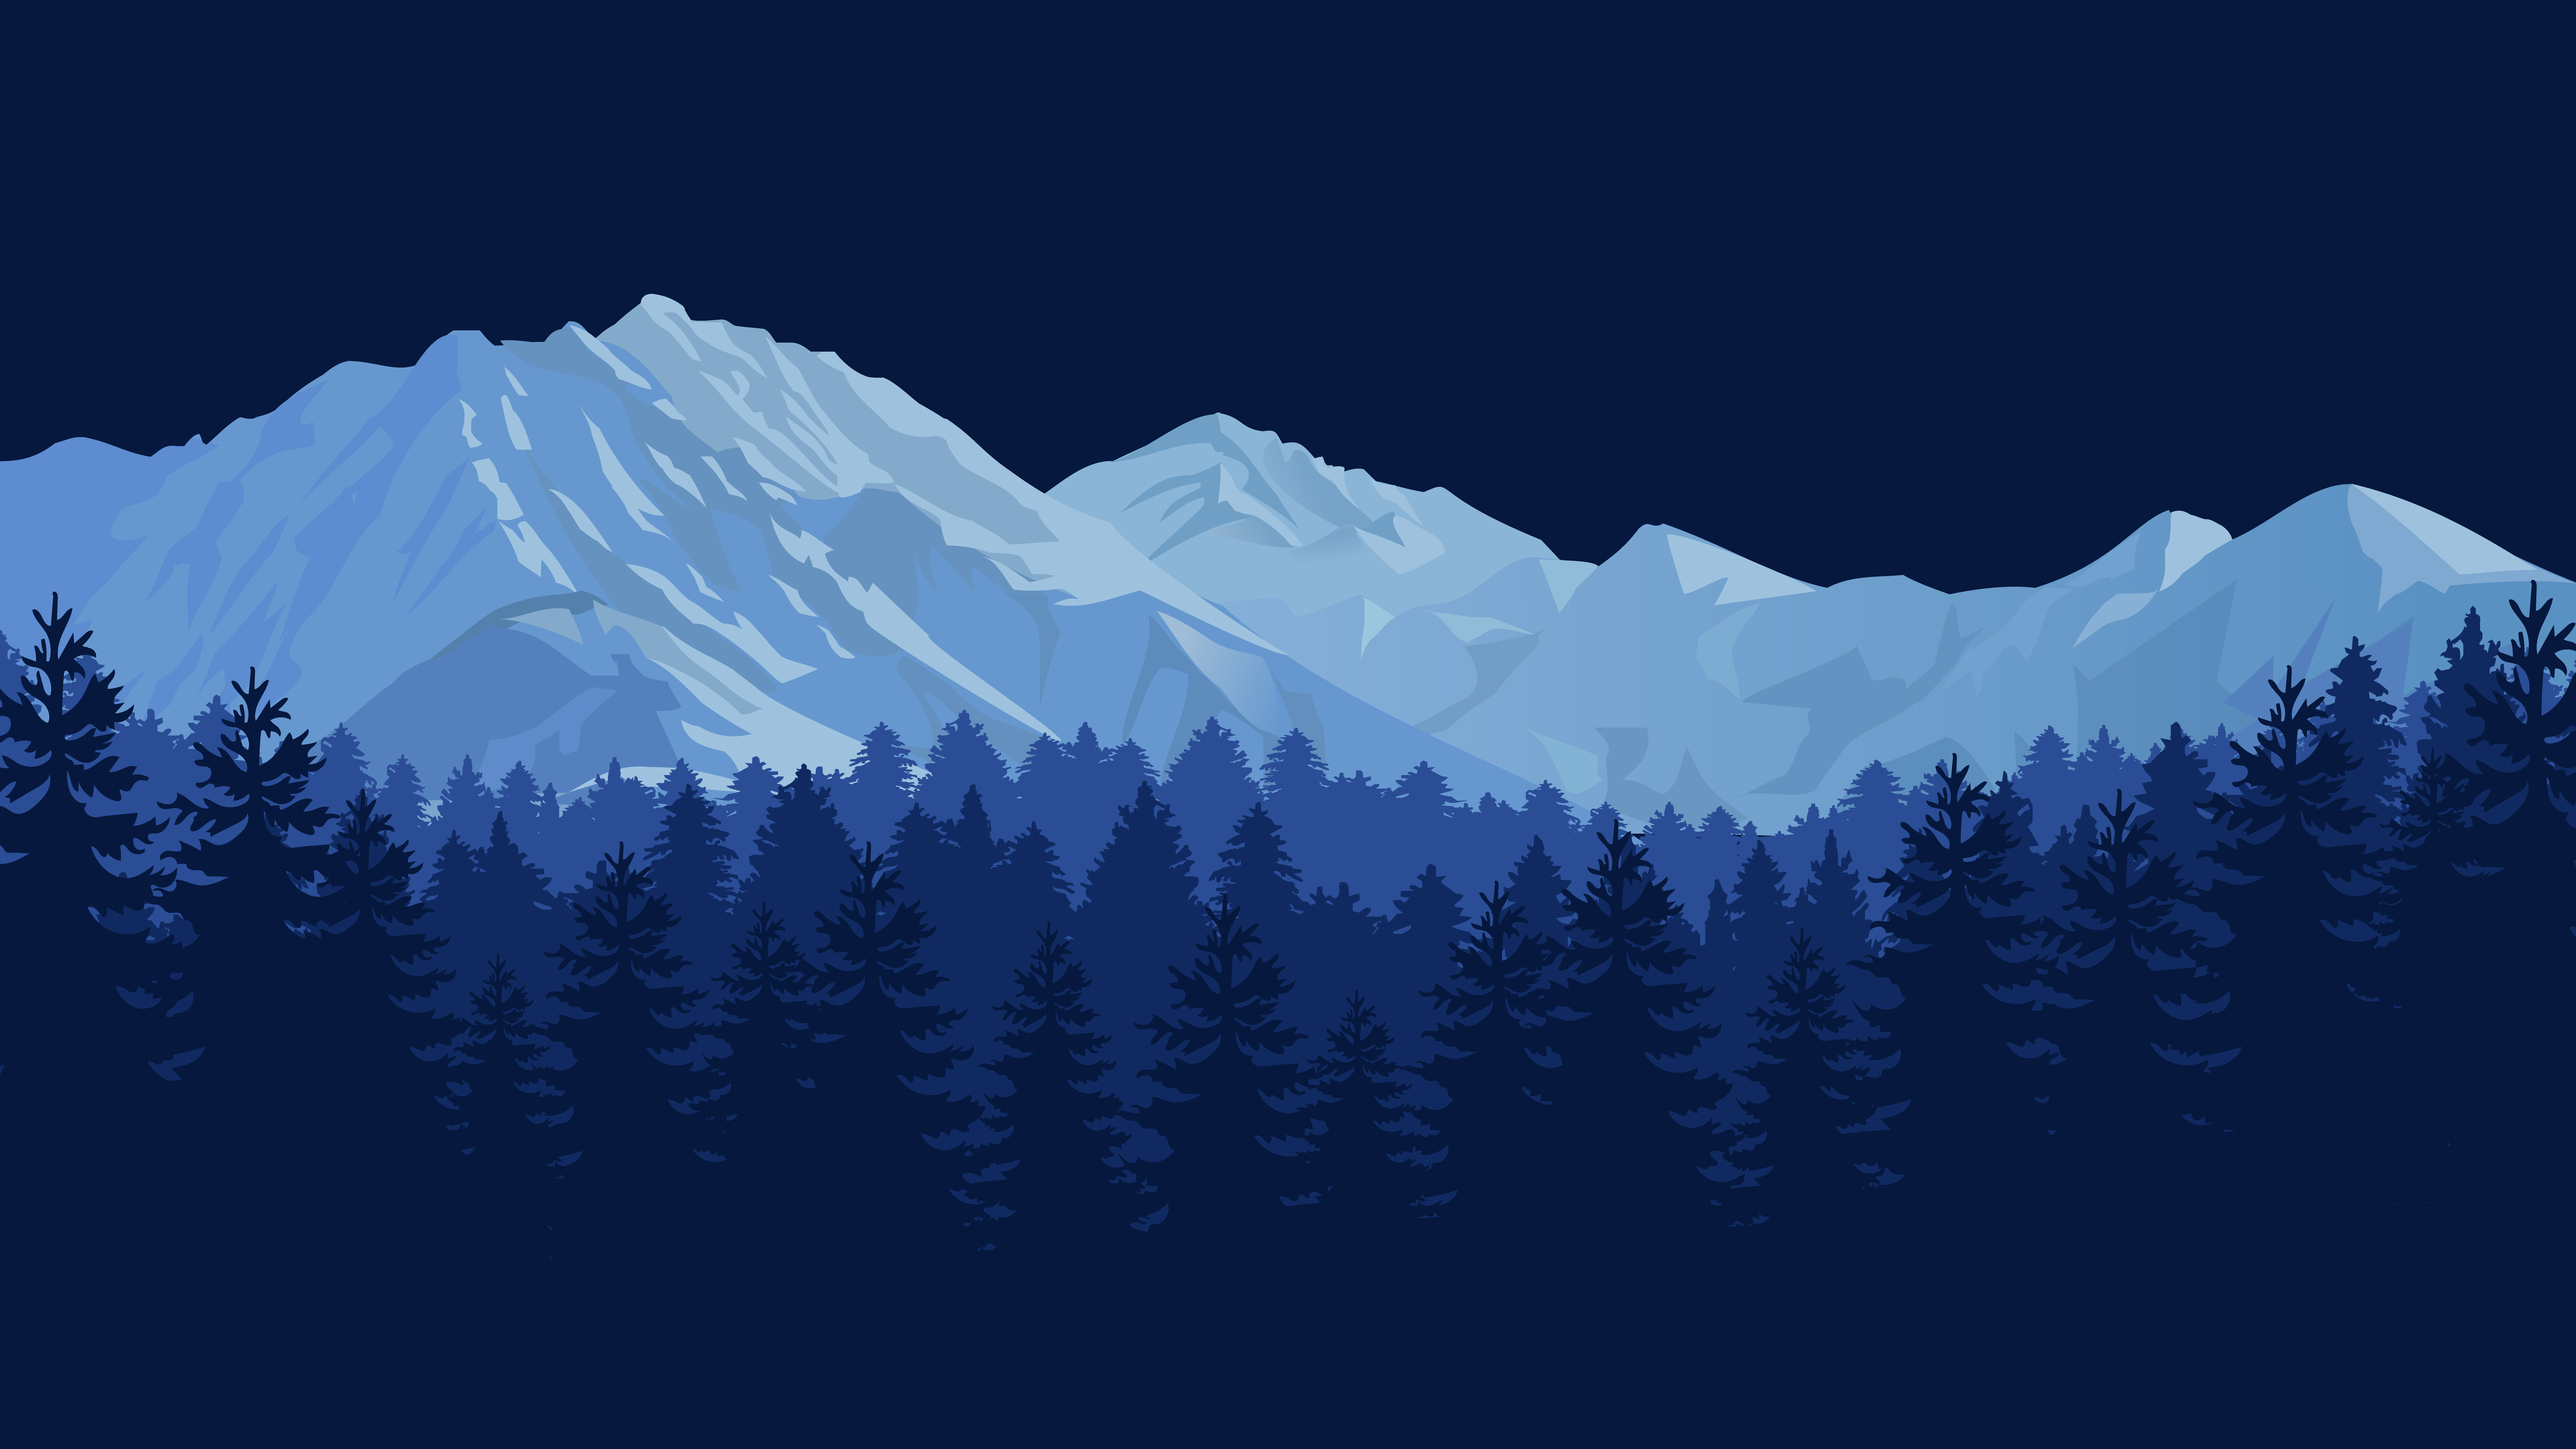
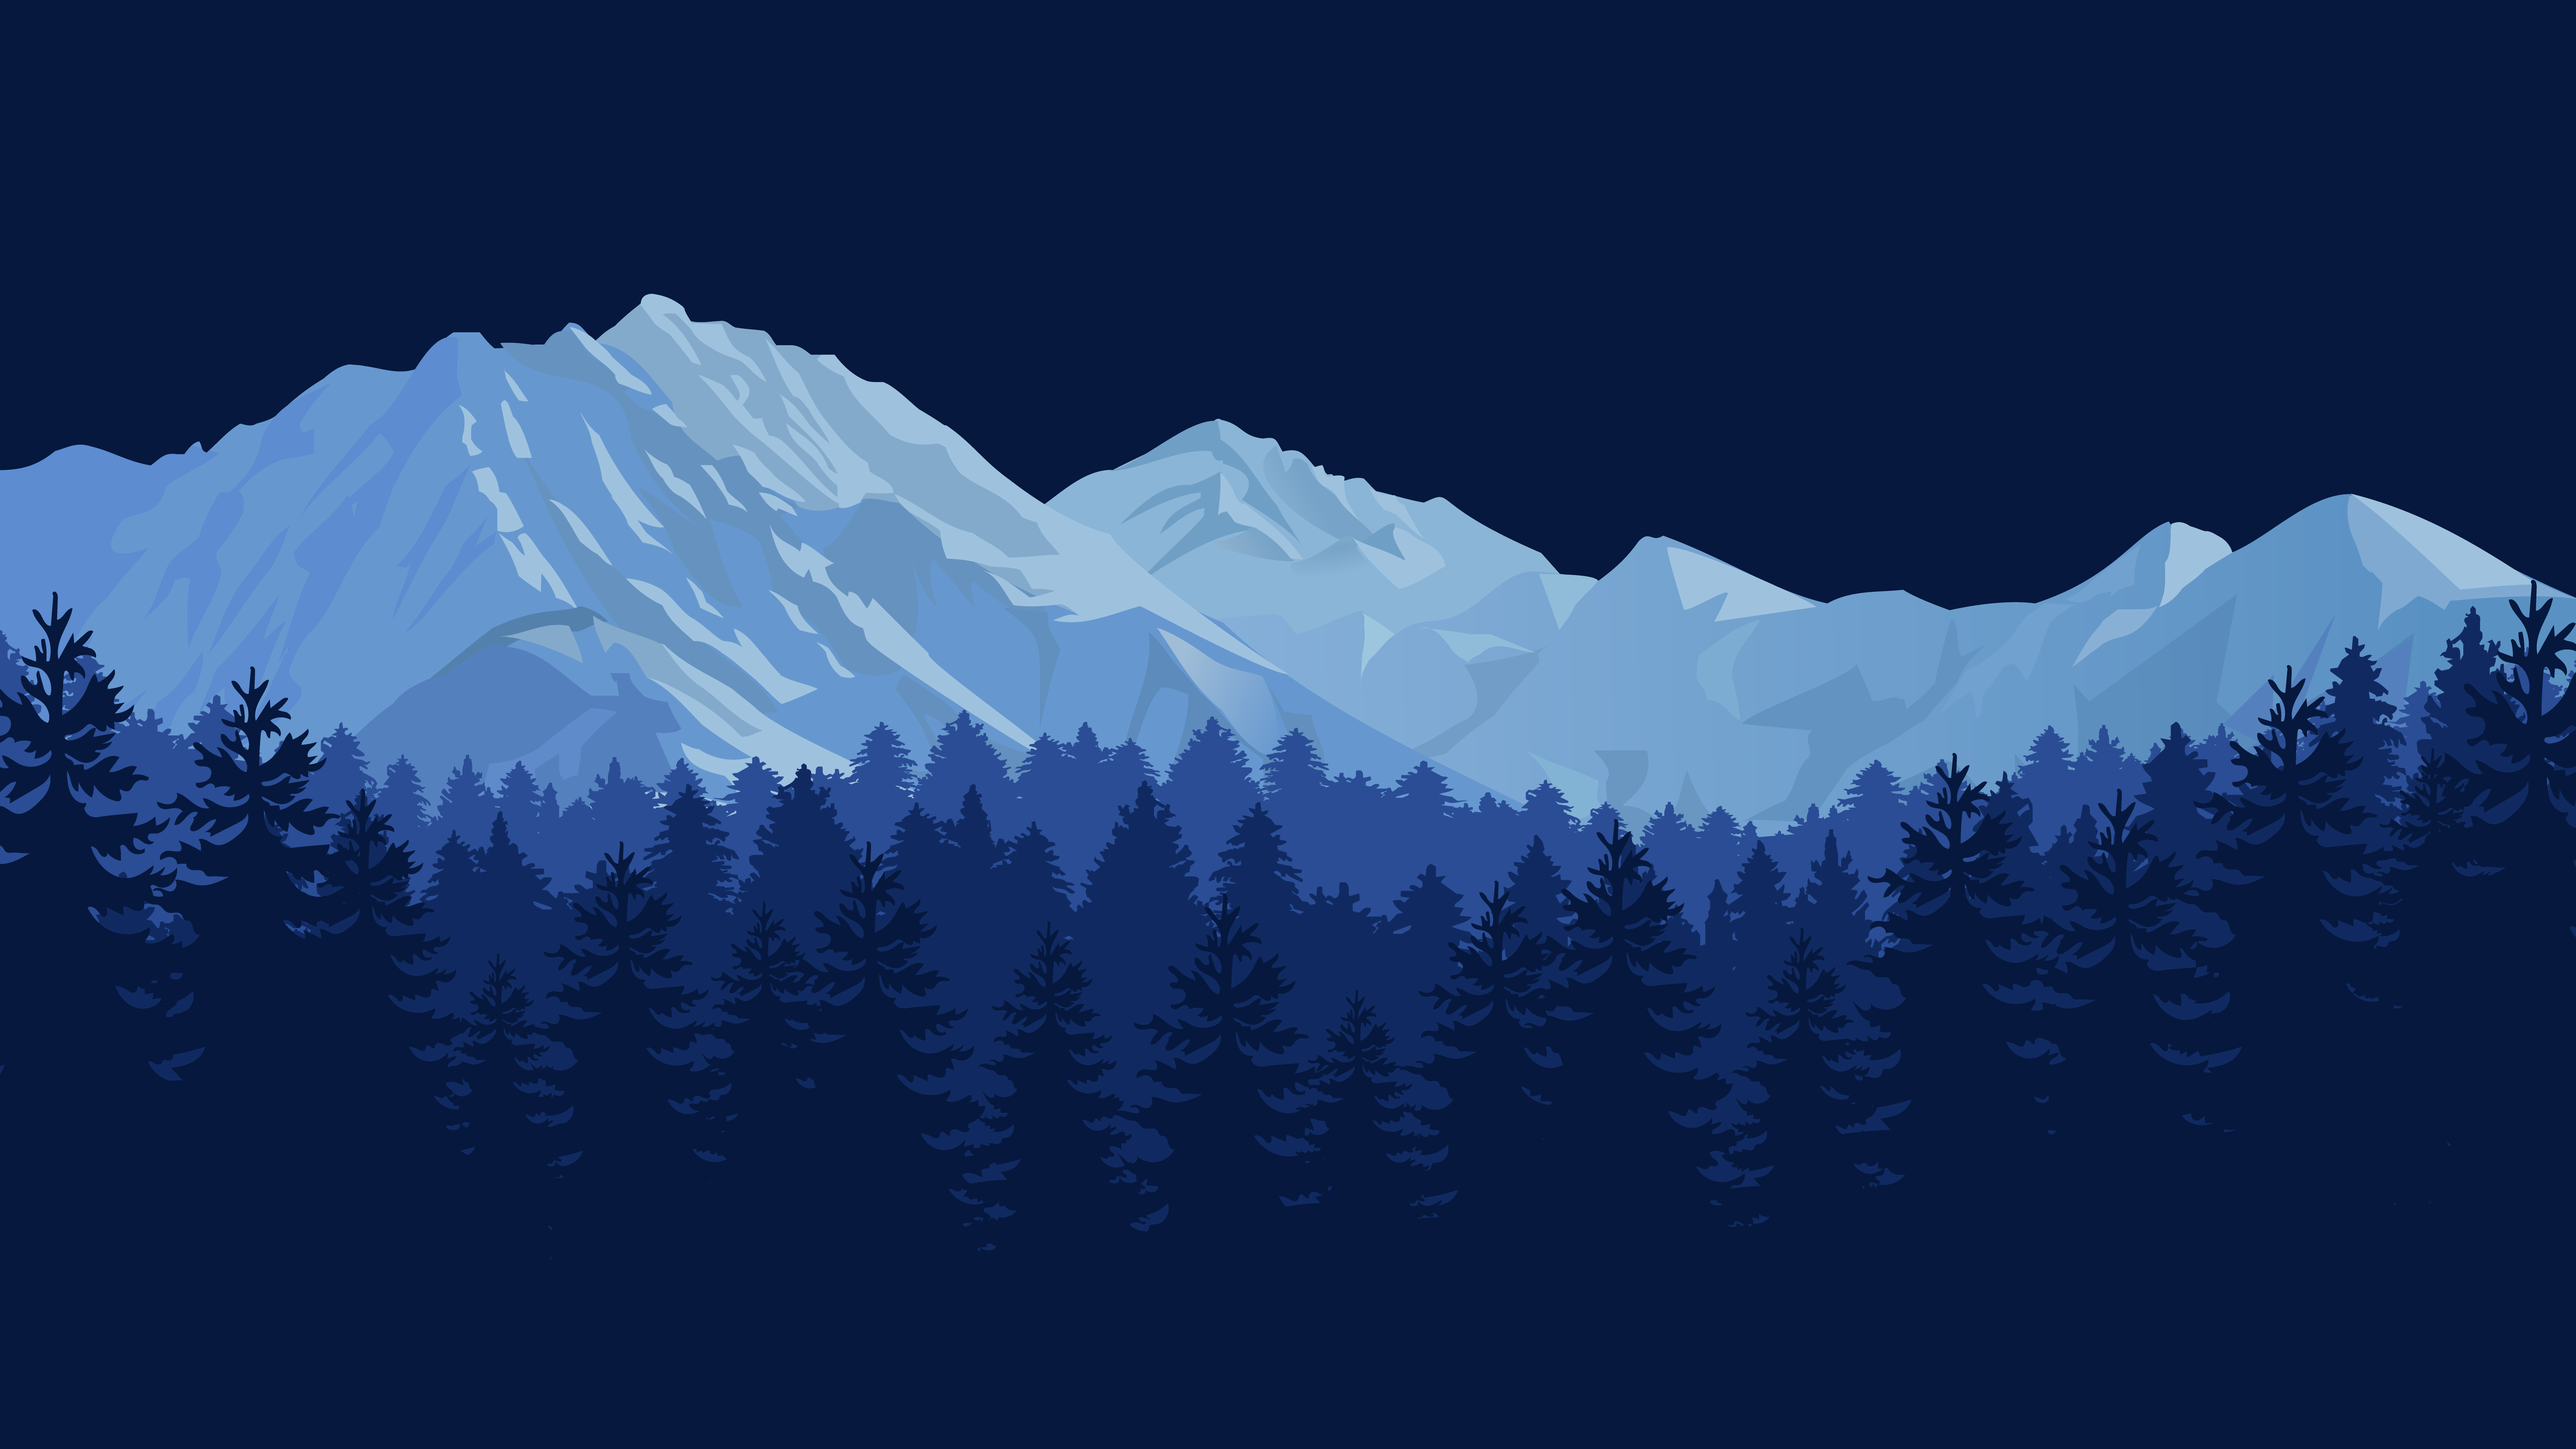
changes homepage background

diff --git a/src/App.js b/src/App.js
@@ -1,5 +1,6 @@
 import React from 'react';
 import './App.css';
+import gsap from 'gsap';
 
 function App() {
   return (
@@ -14,9 +15,12 @@ function App() {
               <h1 id="intro-hello">Hi, my name is</h1>
               <h1 id="intro-name">Peter Mulard.</h1>
               <h1 id="intro-description">I'm an aspiring full stack software engineer.</h1>
-              <div id="intro-button" class="button">
+            </div>
+            {/* <div id="fireflies-container">
+              {fireflies()}
+            </div> */}
+            <div id="intro-button" class="button">
                 <a href="#about-container">Let's dive in</a>
-              </div>
             </div>
           </div>
           <div id="about-container">
@@ -176,6 +180,53 @@ function App() {
       </div>
     </div>
   );
+}
+
+
+/*
+a Pen by DIACO : twitter.com/Diaco_ml || codepen.io/MAW
+powered by GSAP : https://www.greensock.com/
+*/
+const fireflies = () => {
+
+  var total=40,
+    container=document.getElementById('fireflies-container'),
+    w=window.innerWidth,
+    h=window.innerHeight,
+    Tweens=[],
+    SPs=1;
+
+  for (var i=total;i--;){ 
+    var Div=document.createElement('div');
+    gsap.set(Div,{attr:{class:'dot'},x:R(w),y:R(h),opacity:0});
+    container.appendChild(Div);	Anim(Div);	Tweens.push(Div);
+  };
+
+  function Anim(elm){ 
+    elm.Tween=gsap.to(elm,R(20)+10,{bezier:{values:[{x:R(w),y:R(h)},{x:R(w),y:R(h)}]},opacity:R(1),scale:R(1)+0.5,delay:R(2),onComplete:Anim,onCompleteParams:[elm]})
+  };
+
+  for(var i=total;i--;){
+    Tweens[i].Tween.play()};
+
+  window.addEventListener("resize", resize);
+
+  function R(max){return Math.random()*max};
+
+  function resize() {
+    
+    w = window.innerWidth;
+    h = window.innerHeight;
+    
+    for (var i = 0; i < total; i++) {
+      
+      var fireFly = Tweens[i];
+
+      gsap.killTweensOf(fireFly);
+      
+      Anim(fireFly);
+    }
+  }
 }
 
 export default App;

diff --git a/src/App.css b/src/App.css
@@ -2,17 +2,6 @@
   text-align: center;
 }
 
-.App-logo {
-  height: 40vmin;
-  pointer-events: none;
-}
-
-@media (prefers-reduced-motion: no-preference) {
-  .App-logo {
-    animation: App-logo-spin infinite 20s linear;
-  }
-}
-
 .App-header {
   background-color: #282c34;
   min-height: 100vh;
@@ -23,21 +12,6 @@
   font-size: calc(10px + 2vmin);
   color: white;
 }
-
-.App-link {
-  color: #61dafb;
-}
-
-@keyframes App-logo-spin {
-  from {
-    transform: rotate(0deg);
-  }
-  to {
-    transform: rotate(360deg);
-  }
-}
-
-
 
 /* App contents */
 #main-container {
@@ -50,12 +24,13 @@
 
 #intro-container {
   height: 100vh;
-  background: url("home-page-background.png");
+  background: url(home-page-background.png);
   background-size: cover;
+  background-position: center;
 }
 
   #intro-middle-container {
-   padding-top: 50px;
+   padding-top: 80px;
   }
 
     #intro-hello {
@@ -74,24 +49,42 @@
 
     #intro-description {
       color: #99b5c7;
-      margin: 0 50px;
+      margin: 0 30px;
       margin-top: 12px;
       font-size: 20px;
 
     }
 
   #intro-button {
-    margin-top: 685px;
+    margin-top: 670px;
   }
   
     #intro-button a {
       font-size: 16px;
-      border: 2px solid #39d486;
+      letter-spacing: 2px;
+      border: 1px solid #39d486;
       padding: 8px 16px;
       border-radius: 5px;
     }
 
+      #intro-button:hover {
 
+      }
+
+/* #fireflies-container {
+  height: 20vh;
+  width: 100vw;
+}
+
+  .dot{
+    width:4px;
+    height:4px;
+    position:absolute;
+    background-color:#ff00cc;
+    box-shadow:0px 0px 10px 2px #ff00cc;
+    border-radius: 20px;
+    z-index:2;
+  } */
 
 html {
   scroll-behavior: smooth;
@@ -117,3 +110,6 @@ a {
   color: #39d486;
   text-decoration: none;
 }
+
+
+
